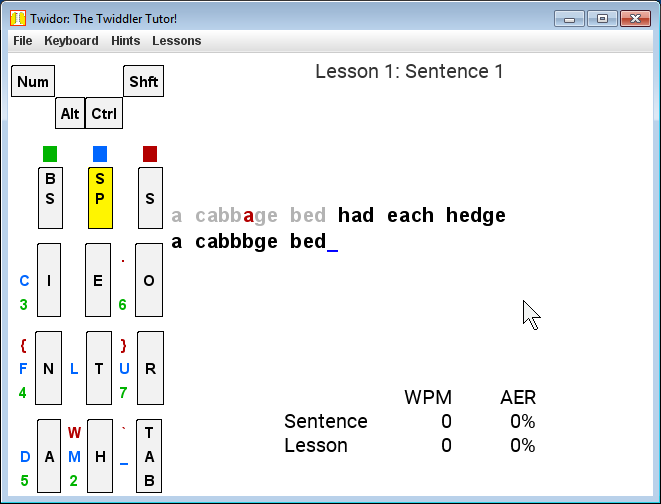
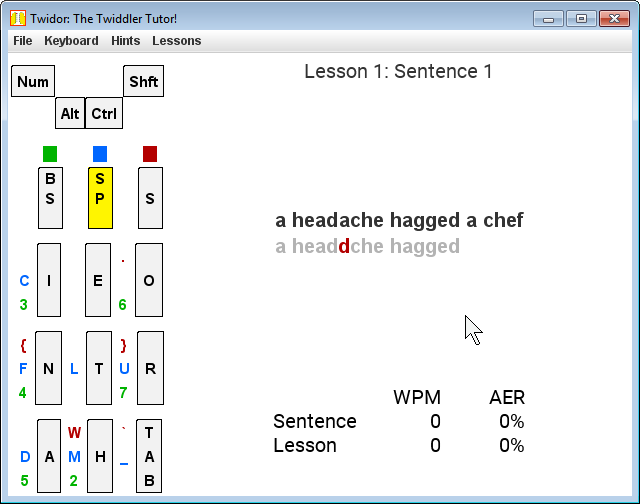
rewrite sentence display to fix kerning

diff --git a/src/TypingPanel.java b/src/TypingPanel.java
@@ -52,22 +52,19 @@ public class TypingPanel extends JPanel implements TwidorConstants {
 	Vector Typed;           // characters typed by user
 	int current;            // cursor on typed text
 	boolean highlightErrors;
-	boolean allowErrors;
 	boolean finished;
 	int min_display_length = 40;
-
+	JTable table;
 	/**
 	 * default constructor
 	 */
 	public TypingPanel () {
 		Sentence = new Vector();
-                String sentenceText = "";
+		String sentenceText = "";
 		Typed = new Vector();
 		setCurrent(0);
 		setEntered(false);
 		setHighlightErrors(HIGHLIGHT_ERRORS);
-		//setAllowErrors(ALLOW_ERRORS);
-		setAllowErrors(true);
 		setBackground(TEXT_BACKGROUND);
 		setLayout(new BoxLayout(this, BoxLayout.Y_AXIS));
 		setBorder(margin);
@@ -82,14 +79,6 @@ public class TypingPanel extends JPanel implements TwidorConstants {
 	public void setHighlightErrors (boolean status) {
 		highlightErrors = status;
 	}// end setHighlightErrors (boolean)
-
-	/**
-	 * Modifier for whether or not we allow errors
-	 * @param boolean the new status of errors
-	 */
-	public void setAllowErrors (boolean status) {
-		allowErrors = status;
-	}// end setAllowErrors (boolean)
 
 	/**
 	 * Modifier for the current JLabel in the typing panel
@@ -119,14 +108,6 @@ public class TypingPanel extends JPanel implements TwidorConstants {
 	public boolean getHighlightErrors () {
 		return highlightErrors;
 	}// end getHighlightErrors ()
-
-	/**
-	 * Accessor for whether or not we allow errors
-	 * @return boolean the status of errors
-	 */
-	public boolean getAllowErrors () {
-		return allowErrors;
-	}// end getAllowErrors ()
 
 	/**
 	 * Accessor for the current JLabel in the typing panel
@@ -167,167 +148,88 @@ public class TypingPanel extends JPanel implements TwidorConstants {
 		setVisible(true);
 	}
 
-	/**
-	 * Called when a new sentence is to be displayed
-	 * @param String the new sentence to display
-	 */
 	public void displaySentence (String sentence) {
 		setVisible(false);
 		setSentenceText(sentence);
-		JPanel sentence_panel = new JPanel();
-		sentence_panel.setAlignmentY(CENTER_ALIGNMENT);
-
-		if (bDEBUG) System.out.println("TypingPanel: Displaying new sentence");
-		/* Empty everything in this JPanel, and clear all associated variables */
 		Sentence.clear();
 		Typed.clear();
 		setCurrent(0);
 		setEntered(false);
 		removeAll();
-
 		if (sentence == null) {
-			if (bDEBUG) System.out.println("TypingPanel: Got sent a null sentence");
 			return;
 		}
-                min_display_length = java.lang.Math.max(min_display_length, sentence.length());
-		int pad = java.lang.Math.max( 3, min_display_length - sentence.length());
-                
-		FontMetrics metrics = getGraphics().getFontMetrics(FONT_TEXT);
-		int hgt = metrics.getHeight();
-		int wid = metrics.stringWidth("m"); // M=14 x 26 m=17x26
-		Dimension size = new Dimension(wid - 2, hgt);
-//		System.out.println("font: " + size);
 
-		sentence_panel.setLayout(new GridLayout(2, sentence.length() + pad, 0, 0));
+		JPanel sentence_panel = new JPanel();
+		sentence_panel.setAlignmentY(CENTER_ALIGNMENT);
+		sentence_panel.setFont(FONT_TEXT);
 		sentence_panel.setBackground(TEXT_BACKGROUND);
-//		int maxWid = 0;
+		FlowLayout layout = (FlowLayout)sentence_panel.getLayout();
+		layout.setHgap(0);
 		for (int i = 0; i < sentence.length(); i++) {
+			JPanel subPanel = new JPanel();
+			subPanel.setLayout(new GridLayout(2, 1));
+			subPanel.setBorder(noBorder);
+			subPanel.setBackground(TEXT_BACKGROUND);
 			String letter = String.valueOf(sentence.charAt(i));
-			JLabel newLetter = letterLabel(letter, size);
-			Sentence.add(newLetter);
-			sentence_panel.add(newLetter);
-//			int w = metrics.stringWidth(letter);
-//			if( w > maxWid ) { maxWid = w; }
+			JLabel jlabel = new JLabel(letter, javax.swing.SwingConstants.CENTER);
+			jlabel.setBorder(noBorder);
+			jlabel.setFont(FONT_TEXT);
+			jlabel.setBackground(TEXT_BACKGROUND);
+			subPanel.add( jlabel );
+			jlabel = new JLabel("", javax.swing.SwingConstants.CENTER);
+			jlabel.setFont(FONT_TEXT);
+			jlabel.setBackground(TEXT_BACKGROUND);
+			subPanel.add( jlabel );
+			Sentence.add( jlabel );
+			sentence_panel.add( subPanel );
 		}
-//		System.out.println("maxWid: " + maxWid);
-		/* text alignment. We allow typers to go +/- 3 characters before hitting enter. */
-		for (int i = sentence.length();  i < sentence.length() + pad; i++) {
-			JLabel newLetter = letterLabel("", size);
-			Sentence.add(newLetter);
-			sentence_panel.add(newLetter);
-		}
-		for (int i = 0; i < sentence.length() + pad; i++) {
-			JLabel newLetter = letterLabel("", size);
-			if (i == 0) {
-				newLetter.setText(CURSOR);
-				newLetter.setForeground(TEXT_CURSOR);
-			}
-			Typed.add(newLetter);
-			sentence_panel.add(newLetter);
-		}
-		sentence_panel.setMaximumSize(sentence_panel.getPreferredSize());
-		// add(Box.createVerticalGlue());
-                // add(Box.createRigidArea(new Dimension(0,pad)));
 		add(sentence_panel);
                 validate();
 		setVisible(true);
-		if (bDEBUG) System.out.println("TypingPanel: New sentence displayed");
 	}// end displaySentence ()
 
-	private JLabel letterLabel (String letter) {
-		return letterLabel( letter, null);
-	}
-
-	private JLabel letterLabel (String letter, Dimension size) {
-		JLabel newLetter = new JLabel(letter, javax.swing.SwingConstants.CENTER);
-		newLetter.setFont(FONT_TEXT);
-		newLetter.setForeground(TEXT_DEFAULT);
-		newLetter.setBackground(TEXT_BACKGROUND);
-		newLetter.setBorder(noBorder);
-		if (size != null) {
-//			newLetter.setMinimumSize( size );
-			newLetter.setMaximumSize( size );
-		}
-		return newLetter;
-	}
-
-	/**
-	 * Called when a character was typed
-	 * @param KeyElement the character that was typed
-	 */
 	public void charTyped (KeyElement typed) {
-		/* Make sure we're in valid character range */
 		if (getCurrent() < 0) {
 			setCurrent(0);
 		}
-		if (getCurrent() > getSentenceText().length()) {
-			if (typed.getNumber() == KEY_EOL || typed.getNumber() == KEY_ENTER || typed.getLetter().equals("\n")) {
-				if (getAllowErrors()) {
-					setEntered(true);
-				}
-			}
-			else if (typed.getNumber() == KEY_BACKSPACE || typed.getNumber() == KEY_DELETE) {
-				setCurrent(getCurrent() - 1);
-				((JLabel)Sentence.elementAt(getCurrent())).setForeground(TEXT_DEFAULT);
-				((JLabel)Typed.elementAt(getCurrent())).setForeground(TEXT_CURSOR);
-				((JLabel)Typed.elementAt(getCurrent())).setText(CURSOR);
-			}
-			else {
-				if (bDEBUG) System.out.println("TypingPanel: Not accepting other input.");
-			}
+		if (typed.getNumber() == KEY_BACKSPACE || typed.getNumber() == KEY_DELETE) {
+			setCurrent(getCurrent() - 1);
+			JLabel label = (JLabel)Sentence.elementAt(getCurrent());
+			label.setForeground(TEXT_DEFAULT);
+			label.setText(CURSOR);
 			return;
 		}
-
 		setVisible(false);
 		if (typed.getNumber() == KEY_EOL || typed.getNumber() == KEY_ENTER || typed.getLetter().equals("\n")) {
 			/* Enter only matters if we're allowing errors and the sentence is finished */
 			if (getCurrent() >= getSentenceText().length()) {
 				setEntered(true);
 			}
-		}
-		else if ((typed.getNumber() == KEY_BACKSPACE) || (typed.getNumber() == KEY_DELETE)) {
-			/* Erase */
-			if (getCurrent() <= 0) {
-				if (bDEBUG) System.out.println("TypingPanel: Can't delete what's not there");
-			}
-			else {
-				((JLabel)Typed.elementAt(getCurrent())).setText("");
-				((JLabel)Typed.elementAt(getCurrent())).setForeground(TEXT_DEFAULT);
-				setCurrent(getCurrent() - 1);
-				((JLabel)Sentence.elementAt(getCurrent())).setForeground(TEXT_DEFAULT);
-			}
-		}
-		else {
-			/* Treat it like a normal character */
-			String toMatch = ((JLabel)Sentence.elementAt(getCurrent())).getText();
-			((JLabel)Typed.elementAt(getCurrent())).setForeground(TEXT_DEFAULT);
-			((JLabel)Typed.elementAt(getCurrent())).setText(typed.displayLetter());
-			if (typed.displayLetter().equals(toMatch)) {
-				((JLabel)Sentence.elementAt(getCurrent())).setForeground(TEXT_GOOD);
+		} else {
+			if (getCurrent() < getSentenceText().length()) {
+				/* Treat it like a normal character */
+				JLabel label = (JLabel)Sentence.elementAt(getCurrent());
+				label.setForeground(TEXT_DEFAULT);
+				label.setText(typed.displayLetter());
+				String toMatch = sentenceText.substring(getCurrent());
+				if (toMatch.startsWith(typed.displayLetter())) {
+					label.setForeground(TEXT_GOOD);
+				} else {
+					label.setForeground(TEXT_ERROR);
+				}
 				setCurrent(getCurrent() + 1);
 			}
-			else {
-				((JLabel)Sentence.elementAt(getCurrent())).setForeground(TEXT_ERROR);
-				if (getAllowErrors()) {
-					setCurrent(getCurrent() + 1);
-				}
-			}
-		}
-		if (getCurrent() < Typed.size()) {
-			((JLabel)Typed.elementAt(getCurrent())).setForeground(TEXT_CURSOR);
-			((JLabel)Typed.elementAt(getCurrent())).setText(CURSOR);
 		}
 		setVisible(true);
-	}// end charTyped (KeyElement)
+	}
 
 	/**
 	 * Called to check and see if the sentence is complete
 	 */
 	public boolean sentenceComplete () {
-		if (getAllowErrors()) {
-			return getEntered();
-		}
-		return (getCurrent() >= getSentenceText().length());
+		return getEntered();
+		// return (getCurrent() >= getSentenceText().length());
 	}// end sentenceComplete ()
 
 }// end class TypingPanel

diff --git a/src/Twidor.java b/src/Twidor.java
@@ -79,7 +79,7 @@ public class Twidor extends JFrame implements TwidorConstants {
 		ignoreInput(true);
 		showingStats(false);
 		/* JFrame Settings */
-		// setSize(new Dimension(windowX, windowY));
+		setMinimumSize(new Dimension(windowX, windowY));
 		setTitle(windowTitle);
 		setBackground(windowBackground);
 		setResizable(windowResizable);
